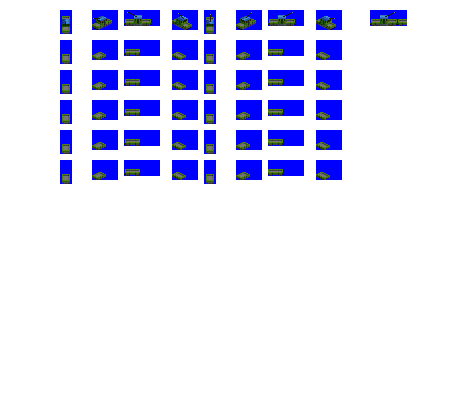
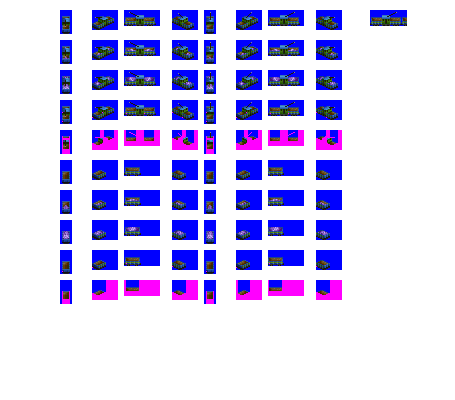
Change: paste Brightling sprites into Portland open tram

diff --git a/src/vehicles/portland.py b/src/vehicles/portland.py
@@ -10,16 +10,15 @@ consist = OpenHauler(id = 'portland',
                 intro_date = 1900,)
 
 consist.add_unit(weight = 12,
-                capacity = 24,
-                vehicle_length = 7,
-                effects = ['EFFECT_SPRITE_ELECTRIC, 0, 0, 10'],
-                always_use_same_spriterow = True)
+                capacity = 48,
+                vehicle_length = 8,
+                cargo_length = 3,
+                effects = ['EFFECT_SPRITE_ELECTRIC, 0, 0, 10'])
 
 consist.add_unit(weight = 4,
                 capacity = 24,
-                vehicle_length = 3,
-                cargo_length = 3,
-                repeat=2)
+                vehicle_length = 4,
+                cargo_length = 3)
 
 consist.add_model_variant(intro_date=0,
                        end_date=global_constants.max_game_date,

diff --git a/src/vehicles/brightling.py b/src/vehicles/brightling.py
@@ -10,13 +10,13 @@ consist = OpenHauler(id = 'brightling',
                 intro_date = 1940)
 
 consist.add_unit(weight = 12,
-                capacity = 40,
+                capacity = 48,
                 vehicle_length = 8,
                 cargo_length = 3,
                 effects = ['EFFECT_SPRITE_ELECTRIC, 0, 0, 10'])
 
 consist.add_unit(weight = 4,
-                capacity = 28,
+                capacity = 24,
                 vehicle_length = 4,
                 cargo_length = 3,
                 repeat = 2)
